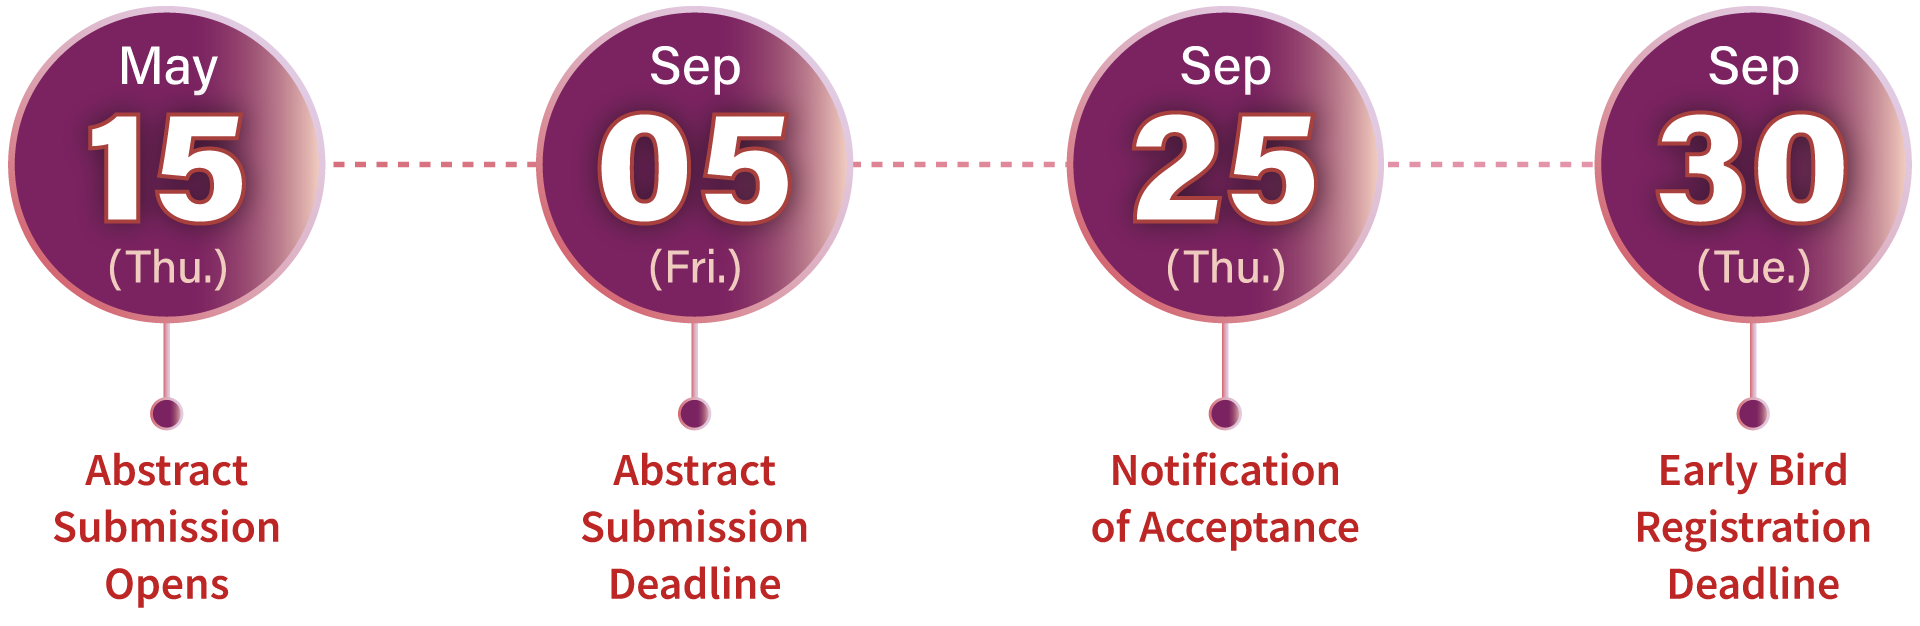
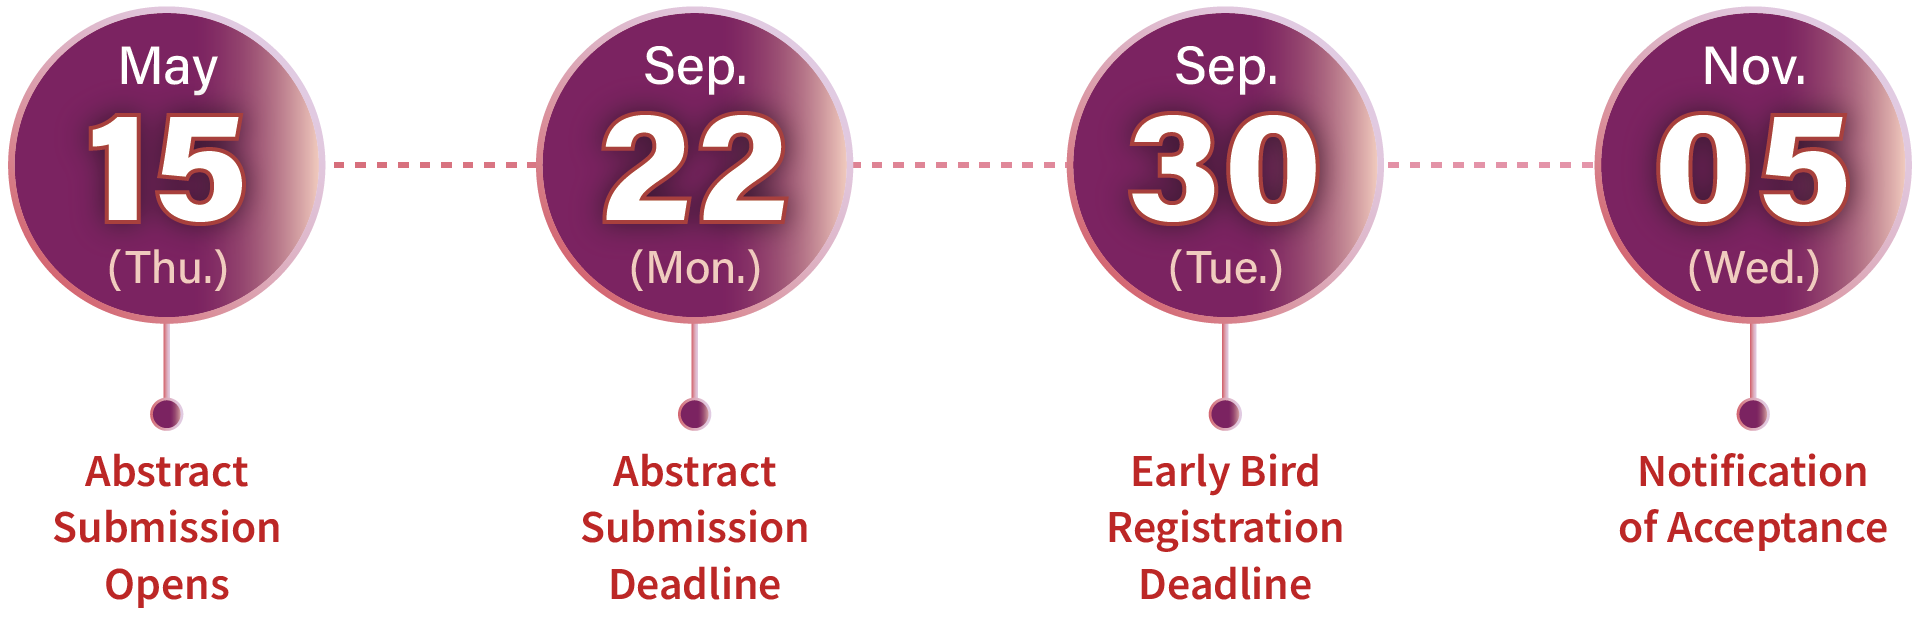
update abstract dateline
- 更新摘要投稿的時間線

diff --git a/components/home/KeyDate.vue b/components/home/KeyDate.vue
@@ -23,20 +23,10 @@
 
             <li class="key-date-item">
                 <div class="key-date-info">
-                    <p class="date-box"><span>05</span><span class="month">Sep<span class="year">2025</span></span></p>
+                    <p class="date-box"><span>22</span><span class="month">Sep<span class="year">2025</span></span></p>
                     <p class="info">Abstract Submission Deadline</p>
                 </div>
                 <a class="key-date-link" href="https://evt.to/eiiouhhdw" target="_blank">
-                    <img class="home-banner-bak" src="../../assets/img/save date-01.svg">
-                </a>
-            </li>
-
-            <li class="key-date-item">
-                <div class="key-date-info">
-                    <p class="date-box"><span>25</span><span class="month">Sep<span class="year">2025</span></span></p>
-                    <p class="info">Notification of Acceptance</p>
-                </div>
-                <a class="key-date-link" href="https://evt.to/eiiouhsmw" target="_blank">
                     <img class="home-banner-bak" src="../../assets/img/save date-01.svg">
                 </a>
             </li>
@@ -53,7 +43,18 @@
 
             <li class="key-date-item">
                 <div class="key-date-info">
-                    <p class="date-box"><span>15~16</span><span class="month">Nov<span class="year">2025</span></span></p>
+                    <p class="date-box"><span>06</span><span class="month">Oct<span class="year">2025</span></span></p>
+                    <p class="info">Notification of Acceptance</p>
+                </div>
+                <a class="key-date-link" href="https://evt.to/eiiouhsmw" target="_blank">
+                    <img class="home-banner-bak" src="../../assets/img/save date-01.svg">
+                </a>
+            </li>
+
+            <li class="key-date-item">
+                <div class="key-date-info">
+                    <p class="date-box"><span>15~16</span><span class="month">Nov<span class="year">2025</span></span>
+                    </p>
                     <p class="info">9th IOPBS & TOPBS2025</p>
                 </div>
                 <a class="key-date-link" href="https://evt.to/eiiiuaoow" target="_blank">
@@ -199,10 +200,10 @@
                 border-radius: 5px;
 
                 &:hover {
-                cursor: pointer;
-                scale: 1.05;
-                transition: all 0.3s ease-in-out;
-            }
+                    cursor: pointer;
+                    scale: 1.05;
+                    transition: all 0.3s ease-in-out;
+                }
 
                 img {
                     width: 2rem;

diff --git a/pages/submission-guidelines.vue b/pages/submission-guidelines.vue
@@ -11,9 +11,9 @@
 
                 <div class="important-date-info">
                     <ul class="disc-list">
-                        <li class="note-text">Abstract Submission Deadline: Friday, September 5, 2025 </li>
-                        <li>Abstract Results Announcement: Thursday, September 25, 2025 </li>
-                        <li>E-Poster & Video Submission Deadline: Friday, October 10, 2025 </li>
+                        <li class="note-text">Abstract Submission Deadline: Monday, September 22, 2025 </li>
+                        <li>Abstract Results Announcement: Monday, October 06, 2025 </li>
+                        <li>E-Poster & Video Submission Deadline: Monday, October 20, 2025 </li>
                     </ul>
                 </div>
 
@@ -22,12 +22,12 @@
                     <table class="review-process-table">
                         <tr>
                             <td rowspan="2">Step1</td>
-                            <td>May15 ~ September 5</td>
+                            <td>May15 ~ September 22</td>
                             <td>Submit abstracts online after complete registration on the official website </td>
                         </tr>
 
                         <tr>
-                            <td>September 6 ~ September 24 </td>
+                            <td>September 23 ~ October 05 </td>
                             <td>Abstracts will be reviewed by the committee </td>
                         </tr>
 
@@ -35,21 +35,21 @@
                             <td rowspan="4">
                                 Step2
                             </td>
-                            <td>September 25 </td>
+                            <td>October 06 </td>
                             <td>Notification of accepted abstracts </td>
                         </tr>
 
                         <tr>
-                            <td>September 25 ~ October 10 </td>
+                            <td>October 06 ~ October 20 </td>
                             <td>E-poster & video upload to the official website. </td>
                         </tr>
 
                         <tr>
-                            <td>October 11 ~ 23 </td>
+                            <td>October 20 ~ 31 </td>
                             <td>Committee reviews accepted e-posters and videos to select award winners </td>
                         </tr>
                         <tr>
-                            <td>October 24 </td>
+                            <td>November 05 </td>
                             <td>Award announcement </td>
                         </tr>
                         <tr>

diff --git a/pages/presentation-guideline.vue b/pages/presentation-guideline.vue
@@ -15,7 +15,7 @@
                     <p class="list-text">For accepted abstracts, authors must submit an e-poster via the official
                         website of the 9th IOPBS & TOPBS 2025. E-posters will be displayed at the event venue. </p>
                     <ul class="disc-list">
-                        <li class="note-text">E-poster Submission Deadline: Friday, October 10, 2025, 23:59 (local time)
+                        <li class="note-text">E-poster Submission Deadline: Monday, October 20, 2025, 23:59 (local time)
                         </li>
                         <li><B>Submission Method:</B> Please <nuxt-link class="link" to="/login">log in</nuxt-link> to
                             the official website of the 9th
@@ -49,7 +49,7 @@
                             website of the 9th IOPBS & TOPBS 2025. Videos will be displayed at the event venue. </B>
                     </p>
                     <ul class="disc-list">
-                        <li class="note-text"><B>Video Submission Deadline:</B> Friday, October 10, 2025, 23:59 (local time) </li>
+                        <li class="note-text"><B>Video Submission Deadline:</B> Monday, October 20, 2025, 23:59 (local time) </li>
                         <li><B>Submission Method: </B>Please log in to the official website of the 9th IOPBS & TOPBS
                             2025 to upload the video. </li>
                     </ul>

diff --git a/pages/abstract-submission.vue b/pages/abstract-submission.vue
@@ -136,16 +136,16 @@ const handleRemove = (file: UploadUserFile, fileList: UploadUserFile[]) => {
 const handleExceed: UploadProps['onExceed'] = (files: UploadUserFile[], fileList: UploadUserFile[]) => {
     console.log(files);
     ElMessage.error(`You can only upload 1 file, please upload again`);
-    if (files.length > 0 ) {
+    if (files.length > 0) {
         fileList.splice(0, fileList.length);
-    
+
         data.fileList = [];
         console.log(data.fileList);
         console.log(fileList);
     }
 
 
-}  
+}
 
 const handlePdfUpload: UploadProps['onChange'] = (file: UploadUserFile, uploadFiles) => {
     console.log(file);
@@ -314,13 +314,19 @@ const findSetting = async () => {
 
 
 const checkAvailable = (paper: any) => {
+    // 獲取今日時間
     const currentDate = new Date();
+    // 將截止時間字串轉換為 Date 物件
+    const endDate = new Date(setting.abstractSubmissionEndTime);
 
+    console.log("今日", currentDate);
+    console.log("截止日", endDate);
+    console.log("是否阻擋", currentDate >= endDate);
 
-    if (currentDate >= setting.abstractSubmissionEndTime) {
+    if (currentDate >= endDate) {
         router.push("/member-center");
         ElMessage.error('Abstract submission is closed');
-    } 
+    }
 }
 
 

diff --git a/pages/award.vue b/pages/award.vue
@@ -9,7 +9,7 @@
                 <p>The 9th IOPBS & TOPBS 2025 Organizing Committee will select outstanding submissions from the
                     abstracts received and present the following awards: Young Investigator Award (1 winner), Best
                     Poster Award (1 winner), and Best Video Award (1 winner).
-                    The award results will be announced on Friday, October 24, and the winners will give an oral
+                    The award results will be announced on Wednesday, November 05, and the winners will give an oral
                     presentation and receive their awards on Saturday, November 15. </p>
 
 
